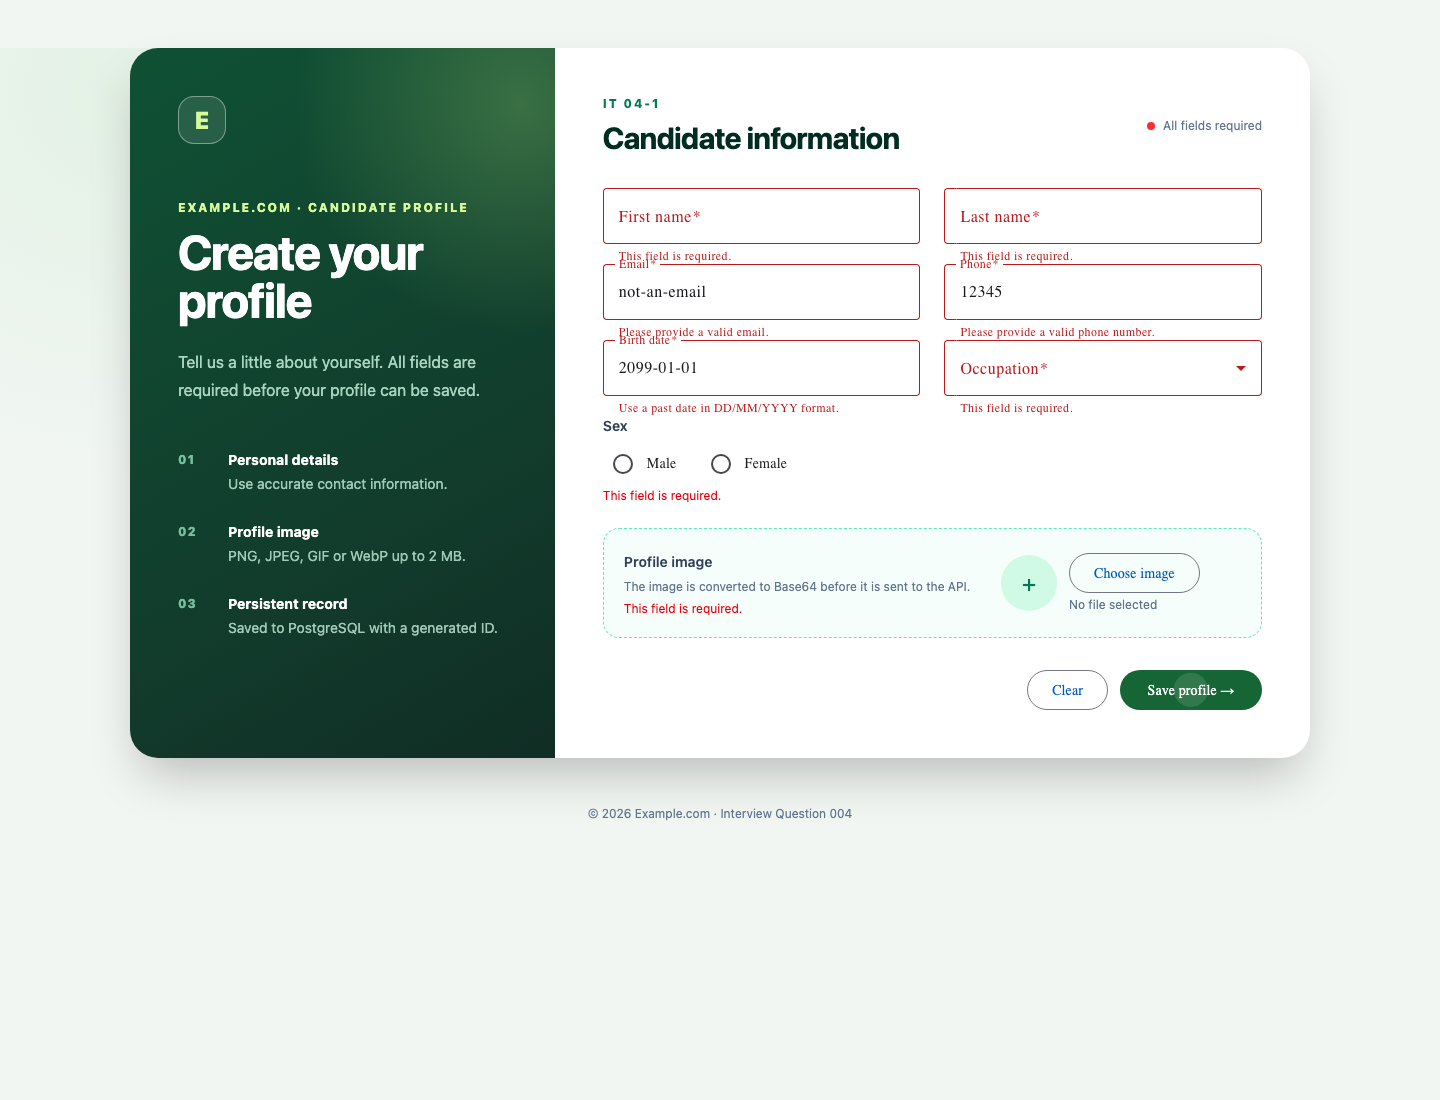
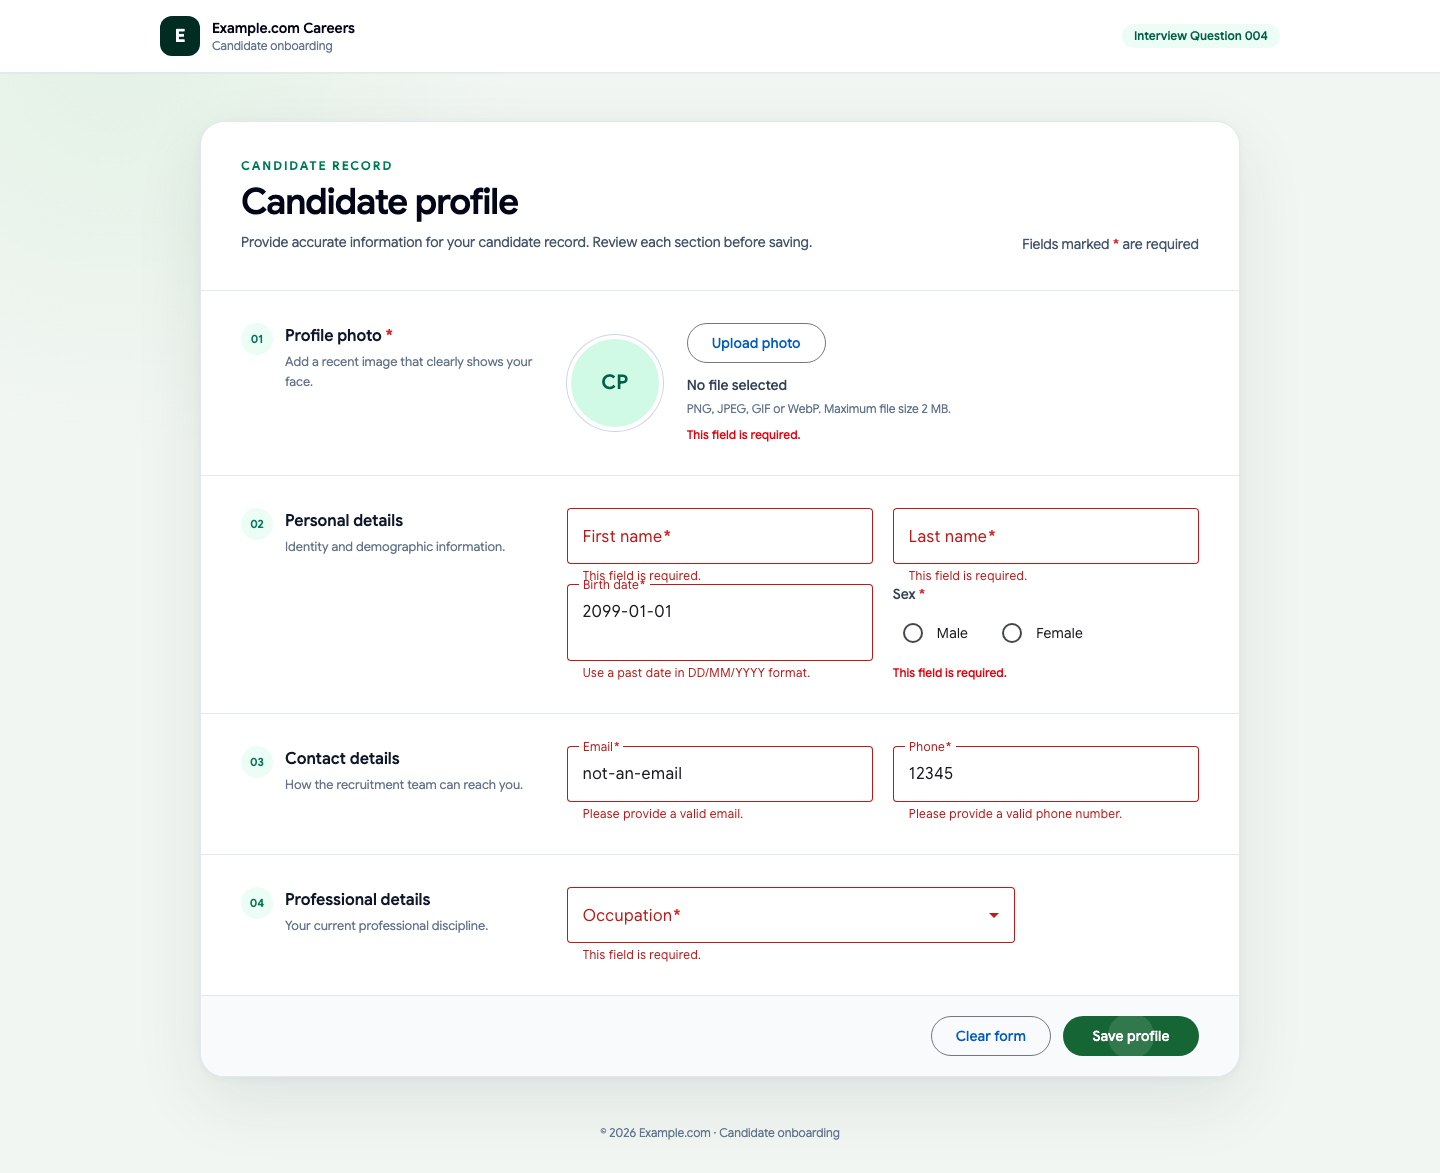
docs: record enterprise UI verification

diff --git a/documentation/09-qa-and-test/01-candidate-profile/playwright-test-result.md b/documentation/09-qa-and-test/01-candidate-profile/playwright-test-result.md
@@ -2,7 +2,7 @@
 doc_id: QAT-CP-04
 module: CANDIDATE_PROFILE
 type: playwright-test-result
-generated_at: 2026-08-18T07:54:21.941Z
+generated_at: 2026-08-18T08:21:39.326Z
 ---
 
 # QAT-CP-04 — ผลทดสอบ Playwright
@@ -21,31 +21,32 @@ generated_at: 2026-08-18T07:54:21.941Z
 
 | ทั้งหมด | ผ่าน | ไม่ผ่าน | สถานะชุดทดสอบ |
 | ------: | ---: | ------: | ------------- |
-|      13 |   13 |       0 | PASS          |
+|      14 |   14 |       0 | PASS          |
 
 ## ผลรายกรณี
 
 | Test Case ID  | ชื่อกรณีทดสอบ                                             | Project  | ผล   | เวลา (ms) | Screenshot                               |
 | ------------- | --------------------------------------------------------- | -------- | ---- | --------: | ---------------------------------------- |
-| TC-CP-E2E-001 | แสดงฟิลด์และปุ่มตามข้อกำหนด                               | chromium | PASS |       220 | [เปิดภาพ](screenshots/tc-cp-e2e-001.png) |
-| TC-CP-E2E-002 | ปฏิเสธการส่งแบบฟอร์มว่างโดยไม่เรียก API                   | chromium | PASS |       265 | [เปิดภาพ](screenshots/tc-cp-e2e-002.png) |
-| TC-CP-E2E-003 | แสดงข้อผิดพลาดของอีเมล โทรศัพท์ และวันเกิด                | chromium | PASS |       277 | [เปิดภาพ](screenshots/tc-cp-e2e-003.png) |
-| TC-CP-E2E-004 | ปุ่ม Clear ล้างข้อมูลและรูปตัวอย่าง                       | chromium | PASS |       475 | [เปิดภาพ](screenshots/tc-cp-e2e-004.png) |
-| TC-CP-E2E-005 | บันทึกโปรไฟล์ผ่าน API และล้างสถานะแบบฟอร์ม                | chromium | PASS |       603 | [เปิดภาพ](screenshots/tc-cp-e2e-005.png) |
-| TC-CP-E2E-006 | API ตอบ ValidationProblemDetails เมื่อ payload ไม่ถูกต้อง | chromium | PASS |       216 | [เปิดภาพ](screenshots/tc-cp-e2e-006.png) |
-| TC-CP-E2E-007 | หน้าจอมือถือไม่มีการล้นแนวนอน                             | chromium | PASS |       217 | [เปิดภาพ](screenshots/tc-cp-e2e-007.png) |
-| TC-CP-E2E-008 | แสดงข้อมูลหลักอาชีพจาก API ตามลำดับ                       | chromium | PASS |       233 | [เปิดภาพ](screenshots/tc-cp-e2e-008.png) |
-| SEC-CP-001    | ปฏิเสธรูปที่ถอดรหัสแล้วเกิน 2 MiB                         | chromium | PASS |       235 | [เปิดภาพ](screenshots/sec-cp-001.png)    |
-| SEC-CP-002    | ปฏิเสธ MIME ที่ไม่ตรงกับ byte signature                   | chromium | PASS |       189 | [เปิดภาพ](screenshots/sec-cp-002.png)    |
-| SEC-CP-003    | ปฏิเสธ request body เกิน 3 MiB                            | chromium | PASS |       205 | [เปิดภาพ](screenshots/sec-cp-003.png)    |
-| SEC-CP-008    | ส่ง security headers ผ่าน Nginx                           | chromium | PASS |       208 | [เปิดภาพ](screenshots/sec-cp-008.png)    |
-| SEC-CP-004    | จำกัดอัตราคำขอสร้างข้อมูล                                 | chromium | PASS |       227 | [เปิดภาพ](screenshots/sec-cp-004.png)    |
+| TC-CP-E2E-001 | แสดงหมวดข้อมูล ฟิลด์ และปุ่มตามข้อกำหนด                   | chromium | PASS |       260 | [เปิดภาพ](screenshots/tc-cp-e2e-001.png) |
+| TC-CP-E2E-002 | ปฏิเสธการส่งแบบฟอร์มว่างโดยไม่เรียก API                   | chromium | PASS |       257 | [เปิดภาพ](screenshots/tc-cp-e2e-002.png) |
+| TC-CP-E2E-003 | แสดงข้อผิดพลาดของอีเมล โทรศัพท์ และวันเกิด                | chromium | PASS |       238 | [เปิดภาพ](screenshots/tc-cp-e2e-003.png) |
+| TC-CP-E2E-004 | ปุ่ม Clear ล้างข้อมูลและรูปตัวอย่าง                       | chromium | PASS |       645 | [เปิดภาพ](screenshots/tc-cp-e2e-004.png) |
+| TC-CP-E2E-005 | บันทึกโปรไฟล์ผ่าน API และล้างสถานะแบบฟอร์ม                | chromium | PASS |       620 | [เปิดภาพ](screenshots/tc-cp-e2e-005.png) |
+| TC-CP-E2E-006 | API ตอบ ValidationProblemDetails เมื่อ payload ไม่ถูกต้อง | chromium | PASS |       200 | [เปิดภาพ](screenshots/tc-cp-e2e-006.png) |
+| TC-CP-E2E-007 | หน้าจอมือถือไม่มีการล้นแนวนอน                             | chromium | PASS |       195 | [เปิดภาพ](screenshots/tc-cp-e2e-007.png) |
+| TC-CP-E2E-008 | แสดงข้อมูลหลักอาชีพจาก API ตามลำดับ                       | chromium | PASS |       216 | [เปิดภาพ](screenshots/tc-cp-e2e-008.png) |
+| TC-CP-E2E-009 | แสดงรูปโปรไฟล์ใน avatar แบบองค์กร                         | chromium | PASS |       455 | [เปิดภาพ](screenshots/tc-cp-e2e-009.png) |
+| SEC-CP-001    | ปฏิเสธรูปที่ถอดรหัสแล้วเกิน 2 MiB                         | chromium | PASS |       226 | [เปิดภาพ](screenshots/sec-cp-001.png)    |
+| SEC-CP-002    | ปฏิเสธ MIME ที่ไม่ตรงกับ byte signature                   | chromium | PASS |       176 | [เปิดภาพ](screenshots/sec-cp-002.png)    |
+| SEC-CP-003    | ปฏิเสธ request body เกิน 3 MiB                            | chromium | PASS |       188 | [เปิดภาพ](screenshots/sec-cp-003.png)    |
+| SEC-CP-008    | ส่ง security headers ผ่าน Nginx                           | chromium | PASS |       166 | [เปิดภาพ](screenshots/sec-cp-008.png)    |
+| SEC-CP-004    | จำกัดอัตราคำขอสร้างข้อมูล                                 | chromium | PASS |       192 | [เปิดภาพ](screenshots/sec-cp-004.png)    |
 
 ## ภาพหลักฐาน
 
-### TC-CP-E2E-001 — แสดงฟิลด์และปุ่มตามข้อกำหนด
+### TC-CP-E2E-001 — แสดงหมวดข้อมูล ฟิลด์ และปุ่มตามข้อกำหนด
 
-![TC-CP-E2E-001 — แสดงฟิลด์และปุ่มตามข้อกำหนด](screenshots/tc-cp-e2e-001.png)
+![TC-CP-E2E-001 — แสดงหมวดข้อมูล ฟิลด์ และปุ่มตามข้อกำหนด](screenshots/tc-cp-e2e-001.png)
 
 ### TC-CP-E2E-002 — ปฏิเสธการส่งแบบฟอร์มว่างโดยไม่เรียก API
 
@@ -74,6 +75,10 @@ generated_at: 2026-08-18T07:54:21.941Z
 ### TC-CP-E2E-008 — แสดงข้อมูลหลักอาชีพจาก API ตามลำดับ
 
 ![TC-CP-E2E-008 — แสดงข้อมูลหลักอาชีพจาก API ตามลำดับ](screenshots/tc-cp-e2e-008.png)
+
+### TC-CP-E2E-009 — แสดงรูปโปรไฟล์ใน avatar แบบองค์กร
+
+![TC-CP-E2E-009 — แสดงรูปโปรไฟล์ใน avatar แบบองค์กร](screenshots/tc-cp-e2e-009.png)
 
 ### SEC-CP-001 — ปฏิเสธรูปที่ถอดรหัสแล้วเกิน 2 MiB
 

diff --git a/documentation/09-qa-and-test/01-candidate-profile/test-strategy-cp.md b/documentation/09-qa-and-test/01-candidate-profile/test-strategy-cp.md
@@ -6,17 +6,17 @@ type: test-strategy
 
 # QAT-CP-01 — กลยุทธ์ทดสอบ Candidate Profile
 
-| ระดับ            | สิ่งที่พิสูจน์                                                                                                |
-| ---------------- | ------------------------------------------------------------------------------------------------------------- |
-| Unit ฝั่ง API    | กฎ payload การกรองข้อมูลหลักอาชีพ การปฏิเสธ code ผิด และการจับคู่เป็น foreign key                             |
-| Unit ฝั่ง Client | หน้าแสดงแบบฟอร์ม ไม่ส่งเมื่อข้อมูลว่าง ล้างสถานะผิด และอ่านข้อมูลหลักผ่าน API                                 |
-| Playwright       | ตรวจเส้นทางผู้ใช้ 8 กรณี และ OWASP 5 กรณี ได้แก่ file size/signature, request/rate limit และ security headers |
-| build            | .NET และ Angular สร้างชิ้นงาน Release สำเร็จ                                                                  |
-| Container        | PostgreSQL healthy, API migration สำเร็จ, Nginx ส่งคำขอ `/api` ได้                                            |
-| End-to-end       | กรอกครบ อัปโหลดรูป บันทึก ได้ ID ข้อความสำเร็จ และฐานข้อมูลมีระเบียน                                          |
-| Visual           | จอ desktop และ mobile ไม่มีส่วนล้นหรือองค์ประกอบซ้อน                                                          |
-| Dependency       | `npm audit` และ NuGet vulnerability scan ไม่มีรายการระดับที่ต้องแก้                                           |
-| Security design  | ตรวจ control matrix และ production gate ตาม `SV-CP-02`; รายการ GAP ติดตามใน `QAT-CP-08`                       |
+| ระดับ            | สิ่งที่พิสูจน์                                                                                                           |
+| ---------------- | ------------------------------------------------------------------------------------------------------------------------ |
+| Unit ฝั่ง API    | กฎ payload การกรองข้อมูลหลักอาชีพ การปฏิเสธ code ผิด และการจับคู่เป็น foreign key                                        |
+| Unit ฝั่ง Client | หน้าแสดงแบบฟอร์ม ไม่ส่งเมื่อข้อมูลว่าง ล้างสถานะผิด และอ่านข้อมูลหลักผ่าน API                                            |
+| Playwright       | ตรวจเส้นทางผู้ใช้ 9 กรณี รวม avatar และ OWASP 5 กรณี ได้แก่ file size/signature, request/rate limit และ security headers |
+| build            | .NET และ Angular สร้างชิ้นงาน Release สำเร็จ                                                                             |
+| Container        | PostgreSQL healthy, API migration สำเร็จ, Nginx ส่งคำขอ `/api` ได้                                                       |
+| End-to-end       | กรอกครบ อัปโหลดรูป บันทึก ได้ ID ข้อความสำเร็จ และฐานข้อมูลมีระเบียน                                                     |
+| Visual           | จอ desktop และ mobile ไม่มีส่วนล้นหรือองค์ประกอบซ้อน                                                                     |
+| Dependency       | `npm audit` และ NuGet vulnerability scan ไม่มีรายการระดับที่ต้องแก้                                                      |
+| Security design  | ตรวจ control matrix และ production gate ตาม `SV-CP-02`; รายการ GAP ติดตามใน `QAT-CP-08`                                  |
 
 ## Exit condition
 

diff --git a/documentation/09-qa-and-test/01-candidate-profile/verification-report-2026-08-18.md b/documentation/09-qa-and-test/01-candidate-profile/verification-report-2026-08-18.md
@@ -11,16 +11,16 @@ verified_at: 2026-08-18
 | ----------------------------- | ---------------------------------------------------------------------------------------------------- |
 | xUnit                         | ผ่าน 16 รายการ; ผลรายกรณีอยู่ใน `unit-test-result.md`                                                |
 | Angular Vitest                | ผ่าน 5 รายการ; ผลรายกรณีอยู่ใน `unit-test-result.md`                                                 |
-| Playwright Chromium           | ผ่าน 13 รายการ รวม security 5 รายการ; มี screenshot ครบใน `playwright-test-result.md`                |
-| Angular production build      | ผ่าน ขนาดเริ่มต้น 613.11 kB                                                                          |
+| Playwright Chromium           | ผ่าน 14 รายการ รวม avatar และ security 5 รายการ; มี screenshot ครบใน `playwright-test-result.md`     |
+| Angular production build      | ผ่าน ขนาดเริ่มต้น 615.87 kB รวม Google Sans ที่ bundle ในระบบ                                        |
 | NuGet vulnerability scan      | ไม่พบแพ็กเกจที่มีช่องโหว่จากแหล่งปัจจุบัน                                                            |
 | npm audit                     | ไม่พบช่องโหว่                                                                                        |
 | Docker Compose บน OrbStack    | client, api, postgres ทำงานครบ; postgres healthy                                                     |
 | API health                    | `GET http://localhost:5004/health` ตอบ `healthy`                                                     |
 | End-to-end ผ่าน Nginx         | `POST http://localhost:4204/api/candidate-profiles` ตอบ `201` และข้อความสำเร็จ                       |
 | PostgreSQL                    | migration ข้อมูลหลักสำเร็จ ข้อมูลเดิมถูกจับคู่ `occupation_id` และมีอาชีพ 5 รายการ                   |
-| Desktop visual                | แบบฟอร์มสองคอลัมน์ การแจ้งสำเร็จ และการล้างสถานะถูกต้อง                                              |
-| Mobile visual                 | viewport 390px ไม่มี horizontal overflow (`scrollWidth = 390`)                                       |
+| Desktop visual                | แบบฟอร์มองค์กรแบ่ง 4 หมวด avatar 96px และดอกจัน required แสดงตรงคำชี้แจง                             |
+| Mobile visual                 | viewport 390px เรียงหมวดและปุ่มหนึ่งคอลัมน์ ไม่มี horizontal overflow                                |
 | Browser console               | ไม่มี error หรือ warning หลังบันทึก                                                                  |
 | OWASP security implementation | file signature, request limit, rate limit, security headers และ loopback ผ่านการตรวจ                 |
 | OWASP production gate         | ยังไม่ผ่าน เพราะ TLS, การจัดเก็บรูป, retention, secret manager และ automated scan อยู่นอก local test |

diff --git a/documentation/09-qa-and-test/01-candidate-profile/traceability-cp.md b/documentation/09-qa-and-test/01-candidate-profile/traceability-cp.md
@@ -6,10 +6,10 @@ type: traceability
 
 # QAT-CP-02 — ตารางสืบย้อน
 
-| ข้อกำหนด  | กระบวนการ | ข้อมูล               | UI                               | API                  | การทดสอบ                                                                                        |
-| --------- | --------- | -------------------- | -------------------------------- | -------------------- | ----------------------------------------------------------------------------------------------- |
-| FR-CP-01  | FLW-CP-01 | DDC-CP-01            | UIS-CP-01, UIX-CP-01, A11Y-CP-01 | API-CP-01            | `UT-API-CP-001`–`UT-API-CP-008`, `UT-UI-CP-001`–`UT-UI-CP-003`, `TC-CP-E2E-001`–`TC-CP-E2E-007` |
-| FR-CP-02  | FLW-CP-01 | DDC-CP-02            | UIS-CP-01, UIX-CP-01             | API-CP-02            | `UT-API-CP-009`–`UT-API-CP-011`, `UT-UI-CP-004`–`UT-UI-CP-005`, `TC-CP-E2E-008`                 |
-| BR-CP-01  | FLW-CP-01 | DDC-CP-01, DDC-CP-02 | UIX-CP-01                        | API-CP-01, API-CP-02 | `UT-API-CP-002`–`UT-API-CP-011`, `TC-CP-E2E-002`, `TC-CP-E2E-003`, `TC-CP-E2E-006`              |
-| AC-CP-01  | FLW-CP-01 | DDC-CP-01            | UIS-CP-01                        | API-CP-01            | `TC-CP-E2E-004`, `TC-CP-E2E-005`, `TC-CP-E2E-007`                                               |
-| QAR-CP-01 | FLW-CP-01 | DDC-CP-01            | ไม่เปลี่ยน UI                    | API-CP-01            | `UT-API-CP-012`–`UT-API-CP-013`, `SEC-CP-001`–`SEC-CP-004`, `SEC-CP-008`                        |
+| ข้อกำหนด  | กระบวนการ | ข้อมูล               | UI                               | API                  | การทดสอบ                                                                                                         |
+| --------- | --------- | -------------------- | -------------------------------- | -------------------- | ---------------------------------------------------------------------------------------------------------------- |
+| FR-CP-01  | FLW-CP-01 | DDC-CP-01            | UIS-CP-01, UIX-CP-01, A11Y-CP-01 | API-CP-01            | `UT-API-CP-001`–`UT-API-CP-008`, `UT-UI-CP-001`–`UT-UI-CP-003`, `TC-CP-E2E-001`–`TC-CP-E2E-007`, `TC-CP-E2E-009` |
+| FR-CP-02  | FLW-CP-01 | DDC-CP-02            | UIS-CP-01, UIX-CP-01             | API-CP-02            | `UT-API-CP-009`–`UT-API-CP-011`, `UT-UI-CP-004`–`UT-UI-CP-005`, `TC-CP-E2E-008`                                  |
+| BR-CP-01  | FLW-CP-01 | DDC-CP-01, DDC-CP-02 | UIX-CP-01                        | API-CP-01, API-CP-02 | `UT-API-CP-002`–`UT-API-CP-011`, `TC-CP-E2E-002`, `TC-CP-E2E-003`, `TC-CP-E2E-006`                               |
+| AC-CP-01  | FLW-CP-01 | DDC-CP-01            | UIS-CP-01                        | API-CP-01            | `TC-CP-E2E-004`, `TC-CP-E2E-005`, `TC-CP-E2E-007`                                                                |
+| QAR-CP-01 | FLW-CP-01 | DDC-CP-01            | ไม่เปลี่ยน UI                    | API-CP-01            | `UT-API-CP-012`–`UT-API-CP-013`, `SEC-CP-001`–`SEC-CP-004`, `SEC-CP-008`                                         |

diff --git a/documentation/09-qa-and-test/01-candidate-profile/playwright-test-cases.md b/documentation/09-qa-and-test/01-candidate-profile/playwright-test-cases.md
@@ -44,6 +44,7 @@ test_source: src/client/e2e/candidate-profile.spec.ts
 | `TC-CP-E2E-006` | Negative    | API contract                |
 | `TC-CP-E2E-007` | Responsive  | Visual                      |
 | `TC-CP-E2E-008` | Master data | Integration / Display order |
+| `TC-CP-E2E-009` | Functional  | Profile image / Visual      |
 | `SEC-CP-001`    | Security    | Negative / File size        |
 | `SEC-CP-002`    | Security    | Negative / File signature   |
 | `SEC-CP-003`    | Security    | Negative / Request limit    |
@@ -113,6 +114,14 @@ test_source: src/client/e2e/candidate-profile.spec.ts
 - **ขั้นตอน:** เรียก `GET /api/occupations` ตรวจ `code`/`name` แล้วเปิด combo box อาชีพบนหน้าเว็บ
 - **ผลที่คาดหวัง:** API ตอบ `200` พร้อม 5 รายการตาม `displayOrder`; ตัวเลือกบนหน้าแสดง `name` ตรงกับ response
 - **สืบย้อน:** `FR-CP-02`, `DDC-CP-02`, `API-CP-02`, `UIX-CP-01`
+
+### TC-CP-E2E-009 — แสดงรูปโปรไฟล์ใน avatar แบบองค์กร
+
+- **ประเภท:** Functional / Profile image / Visual
+- **เป้าหมาย:** พิสูจน์การแสดงรูปใน avatar และการควบคุมไฟล์ตาม `UIS-CP-01`
+- **ขั้นตอน:** อัปโหลด `profile.png` แล้วตรวจรูป ชื่อไฟล์ ปุ่ม Remove ขนาด avatar และวิธีจัดวางรูป
+- **ผลที่คาดหวัง:** avatar เป็นวงกลม 96x96px รูปใช้ `object-fit: cover` และมีปุ่ม Remove
+- **สืบย้อน:** `FR-CP-01`, `AC-CP-01`, `UIS-CP-01`, `UIX-CP-01`
 
 ### SEC-CP-001 — ปฏิเสธรูปที่ถอดรหัสแล้วเกิน 2 MiB
 

diff --git a/README.md b/README.md
@@ -5,6 +5,7 @@ Full-stack implementation of Test 1, Question 4 for `example.com`.
 ## Technology
 
 - Frontend: Angular 22, Angular Material 22, Tailwind CSS 4
+- Typography: Google Sans bundled locally through Fontsource
 - Backend: ASP.NET Core 10 Web API (C#)
 - Database: PostgreSQL 18 with Entity Framework Core and Npgsql
 - Local deployment: OrbStack with Docker Compose and Nginx
